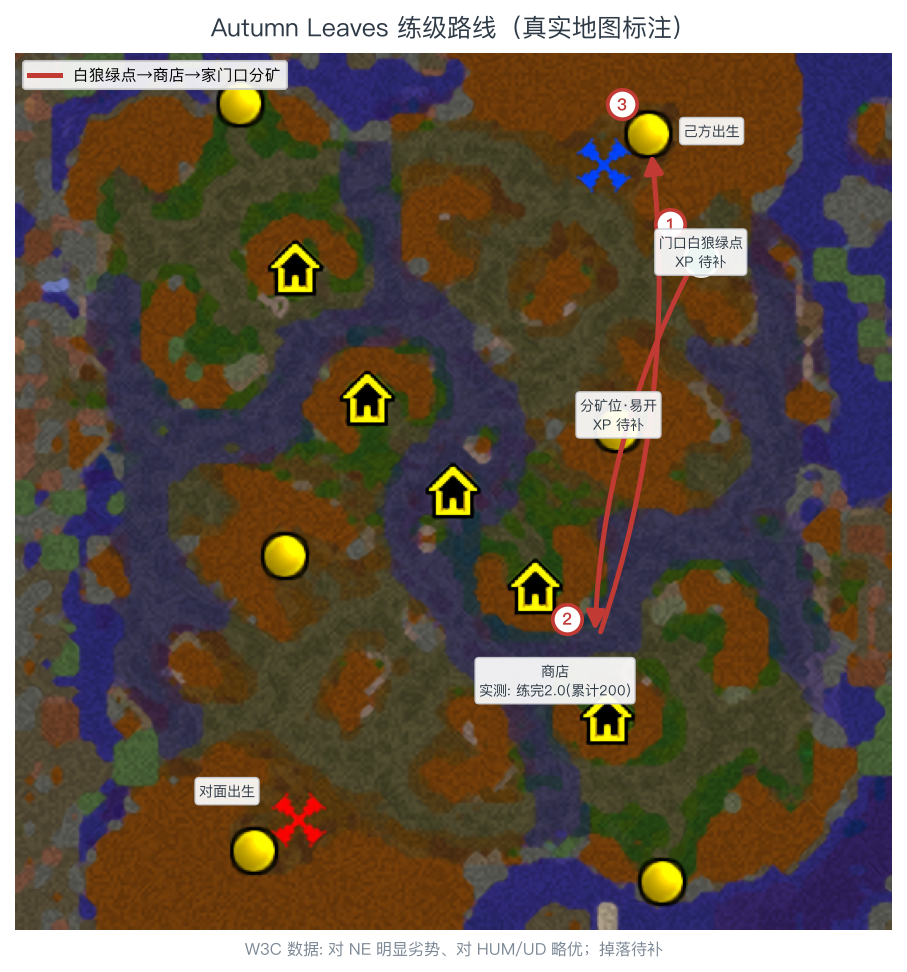
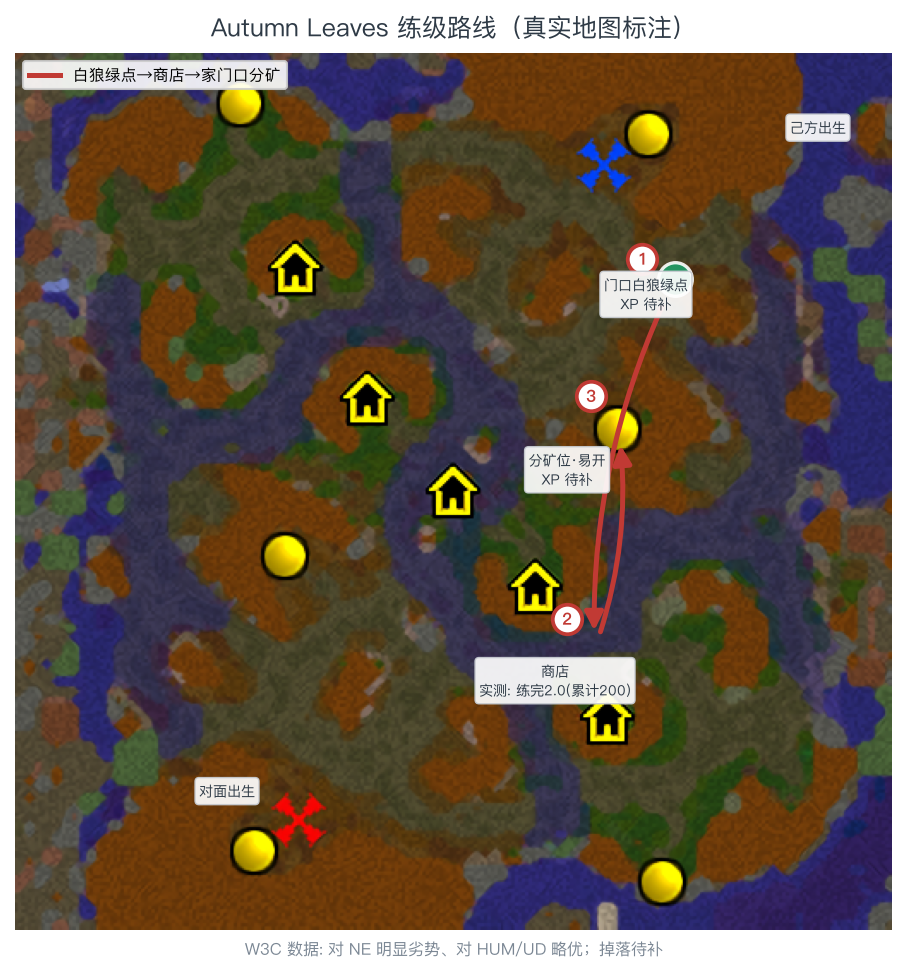
war3: 练级路线图改真实地图底图标注（底图移至 tools/war3-base），并入细节条目：2.6 练级技巧+实拍、7.4 四族建筑学、时间账/复活买活、QWE/ZXC 改键、围杀按H补位、ORC 倒刺

diff --git a/tools/war3-figures.py b/tools/war3-figures.py
@@ -404,7 +404,7 @@ def fig_routes():
     from matplotlib.lines import Line2D
 
     BASE = os.path.join(os.path.dirname(os.path.abspath(__file__)),
-                        "..", "source", "images", "war3", "base")
+                        "war3-base")
     C, B = "#c13a34", "#1f6fb0"  # 主路线红 / 备选蓝
 
     def P(x, y):  # 512 基准坐标缩放
@@ -525,7 +525,7 @@ def fig_routes():
     draw("am", "Amazonia 练级路线（真实地图标注）",
          labels=[
              (100, 100, "雇佣兵营地?\n实测: 练完2.0(累计200)\n掉落: 可勾电盾加速", "center", "top"),
-             (80, 390, "分矿(三怪无尸体\n→亡灵练级难受)", "center", "top"),
+             (80, 348, "分矿(三怪无尸体，亡灵练级难受)\nXP 待补", "center", "bottom"),
              (200, 480, "门口营地\nXP 待补", "center", "top"),
              (450, 72, "对面出生", "left", "top"),
              (112, 408, "己方出生", "right", "top"),
@@ -560,17 +560,17 @@ def fig_routes():
     # ---------------- Autumn Leaves：出生 右上(己)/左下(对)
     draw("al", "Autumn Leaves 练级路线（真实地图标注）",
          labels=[
-             (400, 105, "门口白狼绿点\nXP 待补", "center", "top"),
+             (368, 152, "门口白狼绿点\nXP 待补", "center", "bottom"),
              (315, 355, "商店\n实测: 练完2.0(累计200)", "center", "top"),
-             (390, 40, "己方出生", "left", "top"),
+             (452, 38, "己方出生", "left", "top"),
              (140, 425, "对面出生", "right", "top"),
-             (352, 200, "分矿位·易开\nXP 待补", "center", "top"),
+             (322, 232, "分矿位·易开\nXP 待补", "center", "top"),
          ],
          camps=[
-             ("camp_g", 400, 120, ""),
+             ("camp_g", 385, 132, ""),
          ],
          routes=[
-             ([(398, 118), (338, 348), (370, 48)], C, "-",
+             ([(382, 138), (338, 348), (352, 218)], C, "-",
                "白狼绿点→商店→家门口分矿"),
          ],
          note="W3C 数据: 对 NE 明显劣势、对 HUM/UD 略优；掉落待补")
@@ -619,7 +619,7 @@ def fig_routes():
     # ---------------- TideHunter：出生 左上(对面)/右下(己方)
     draw("th", "TideHunter 练级路线（真实地图标注）",
          labels=[
-             (140, 165, "门口黄点·潮汐\nBR可造得很近\n累计XP 待补", "center", "top"),
+             (140, 196, "门口黄点·潮汐\nBR可造得很近，累计XP 待补", "center", "top"),
              (95, 230, "绿点\n两绿点组合到2级", "center", "top"),
              (215, 240, "绿点", "center", "top"),
              (55, 345, "分矿·远+警戒+100\n对面开矿慢", "center", "top"),
